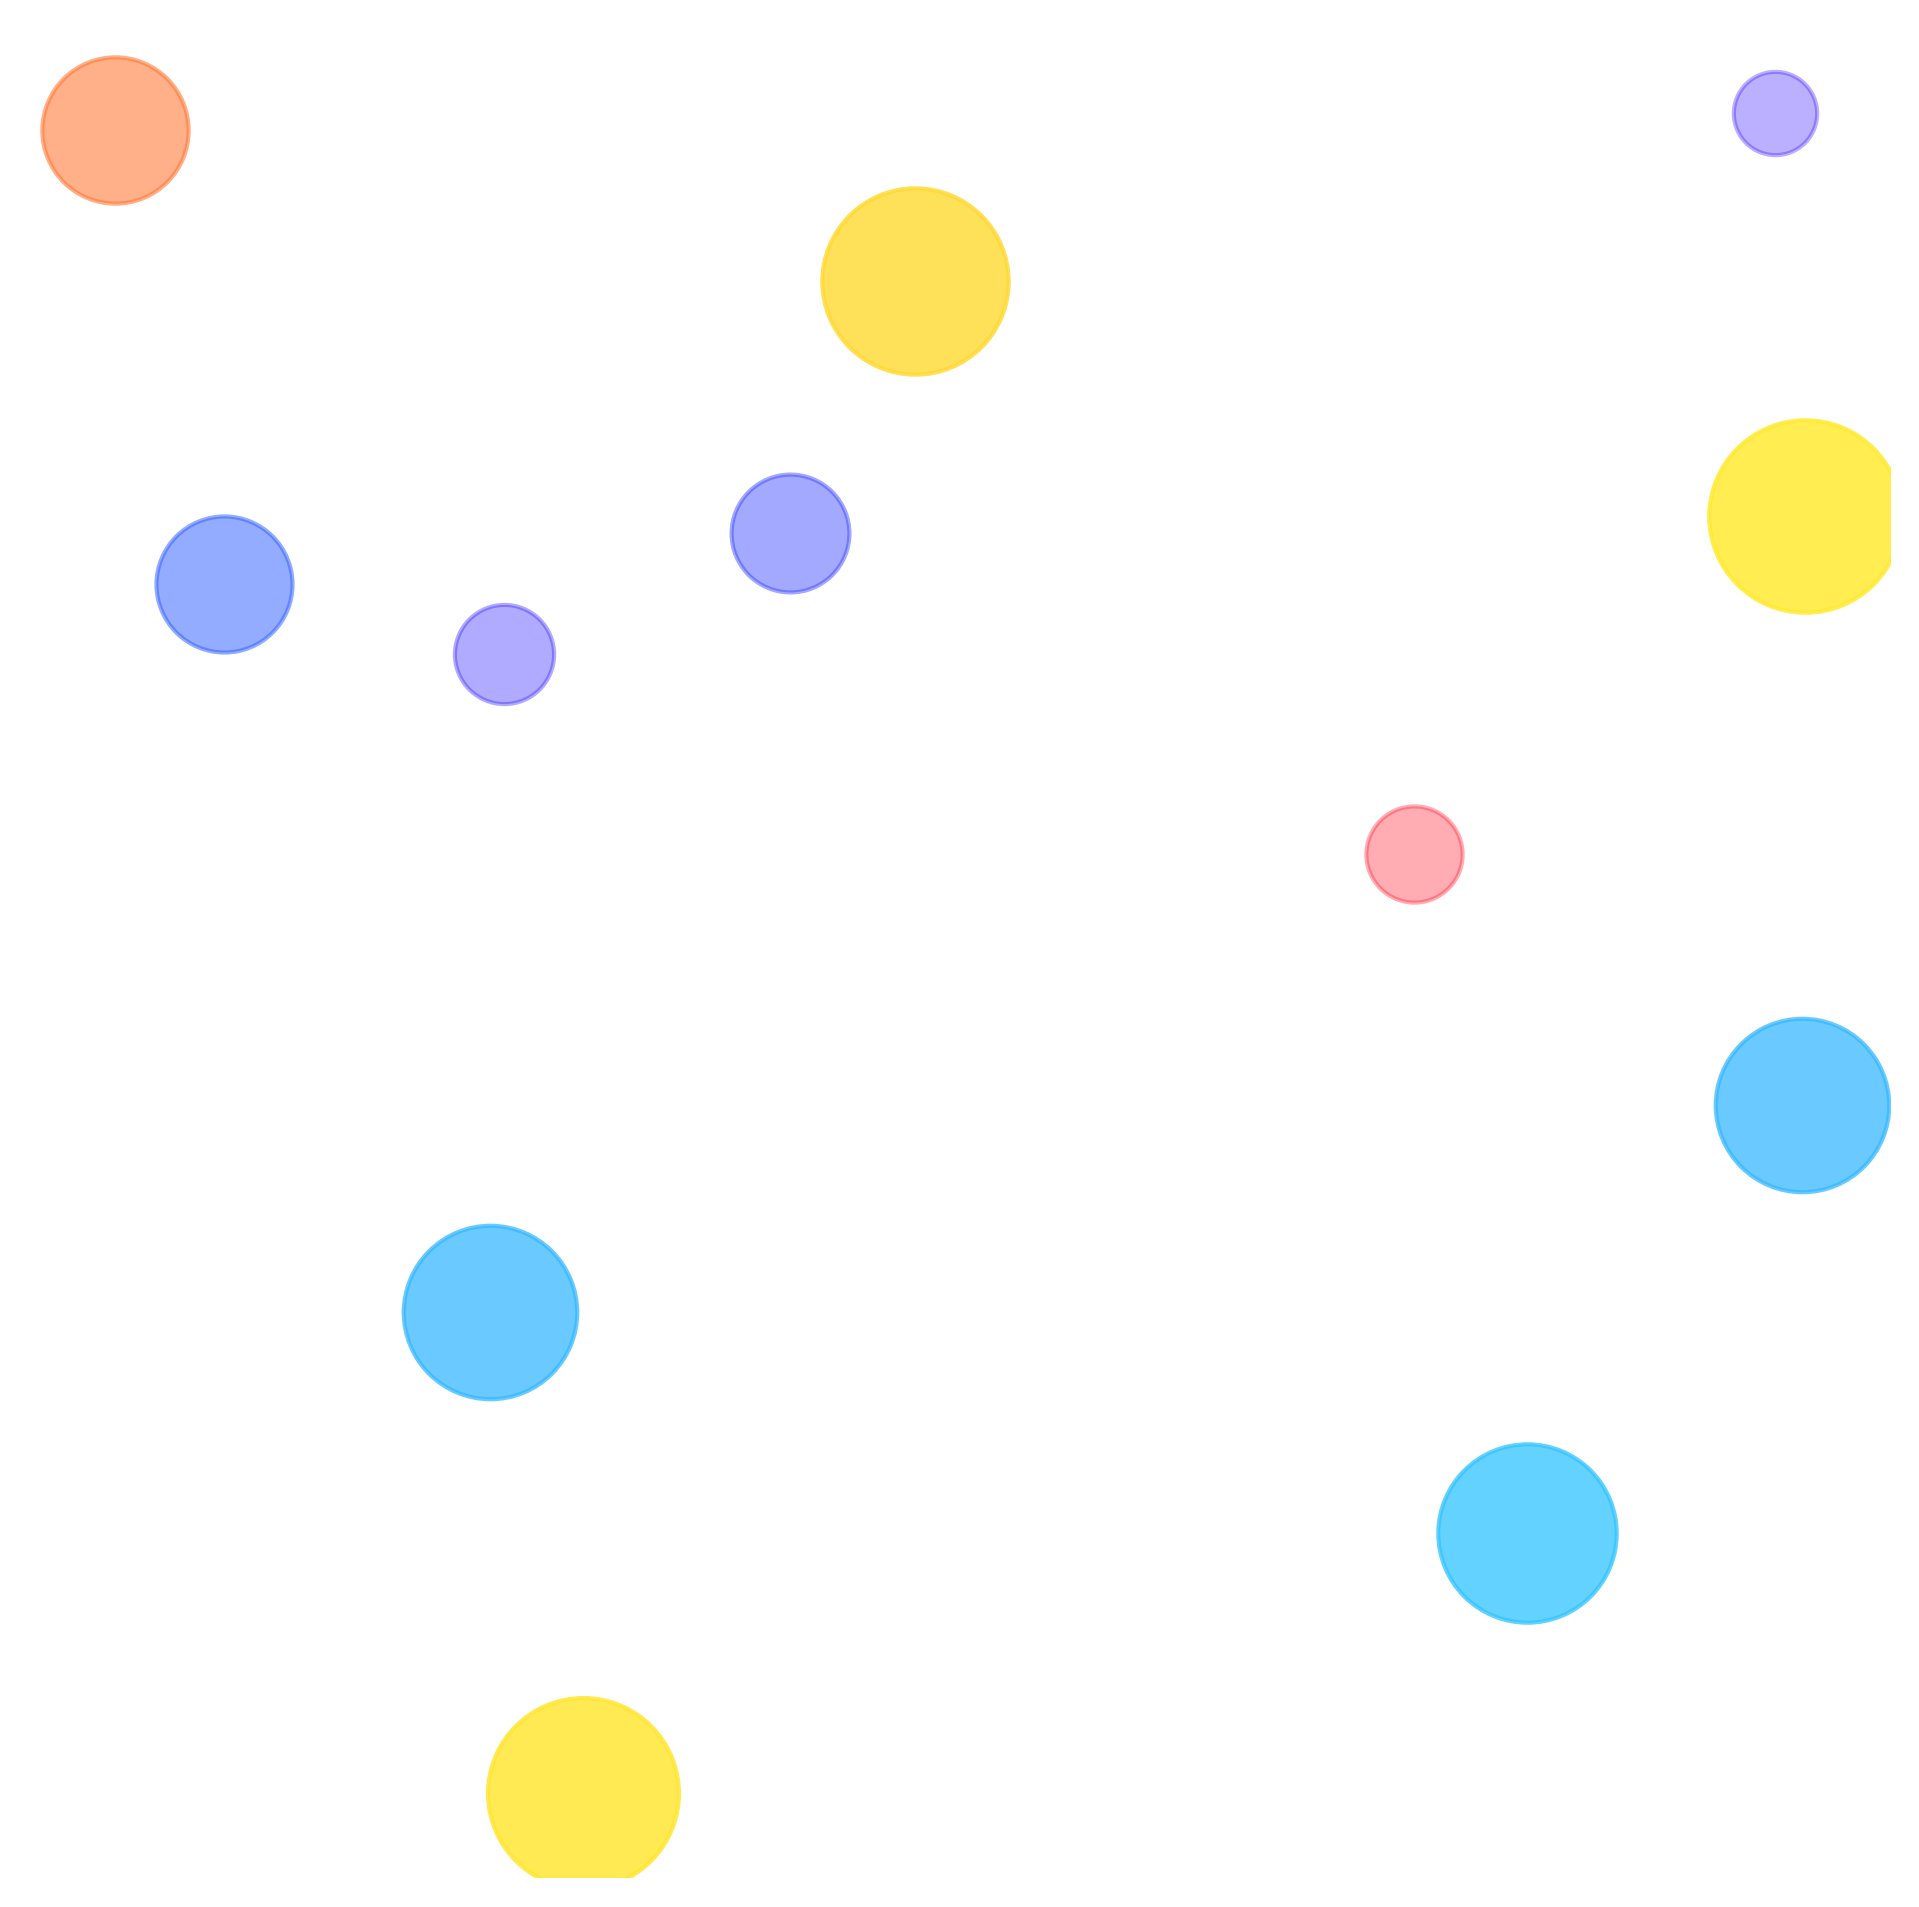
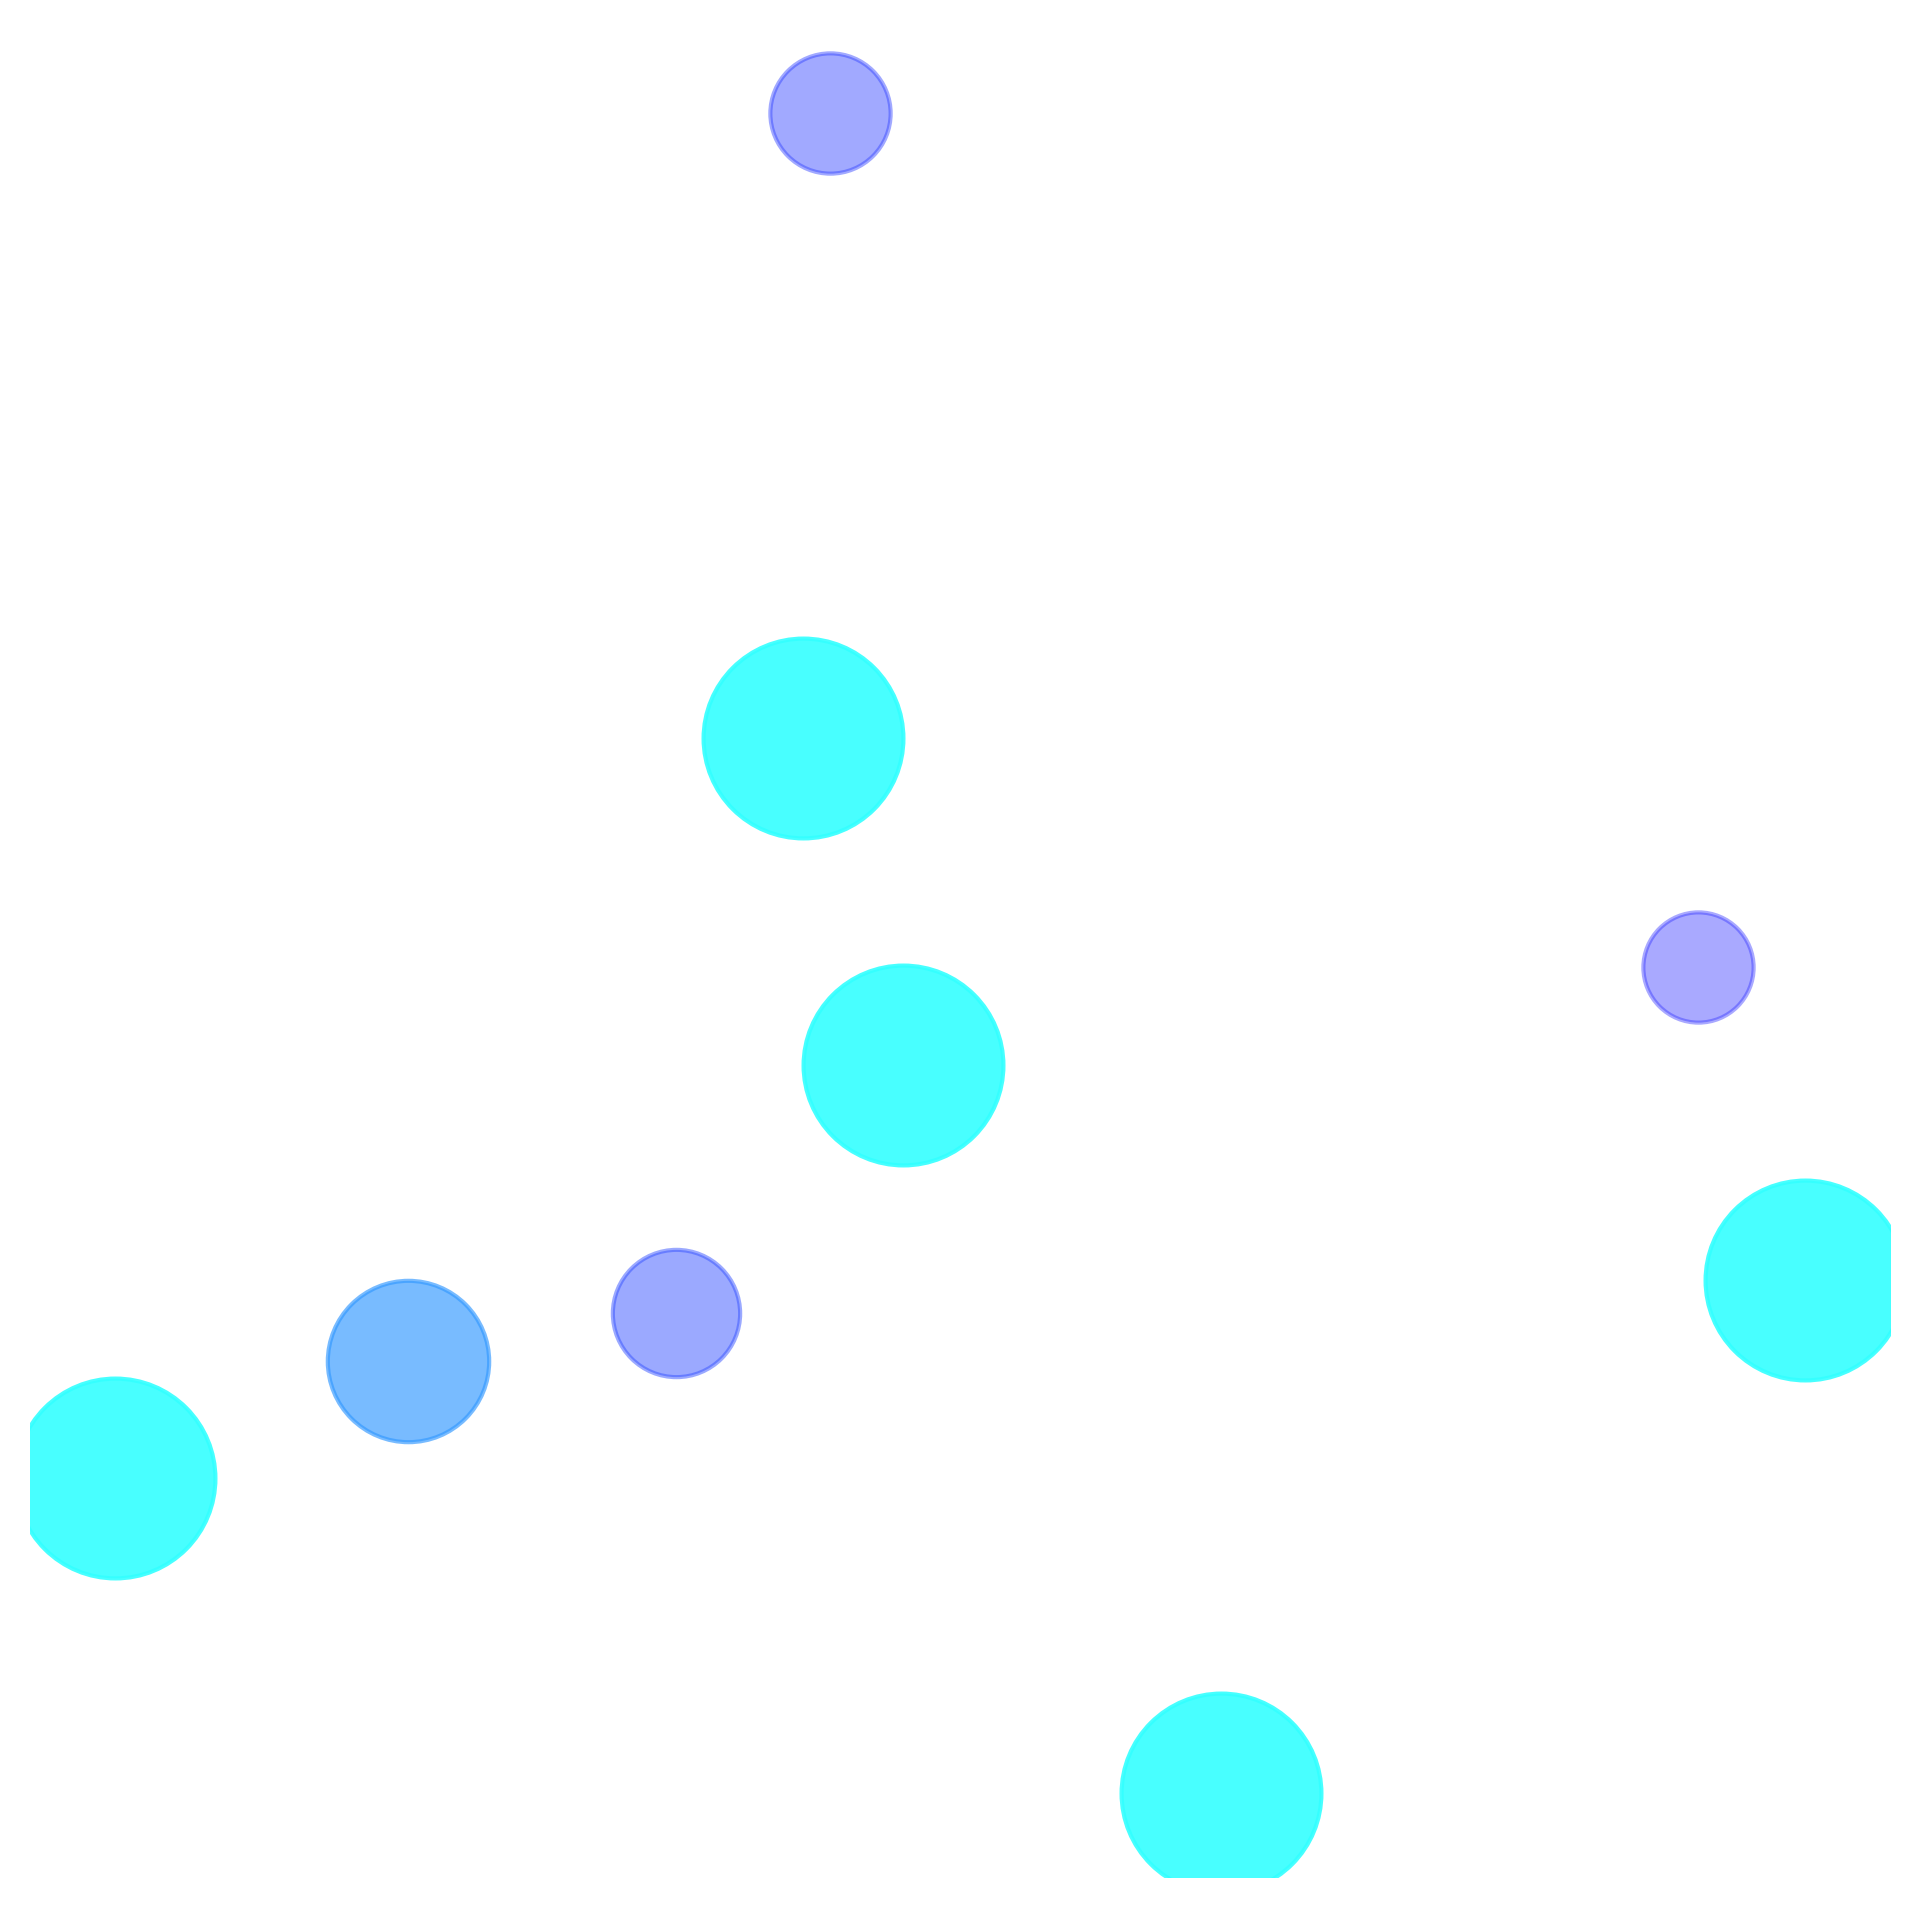
Add Wi-Fi signal art generator

diff --git a/src/art/renderer.py b/src/art/renderer.py
@@ -3,20 +3,46 @@ import numpy as np
 
 def render_art(visuals):
     fig, ax = plt.subplots(figsize=(8, 8))
+
+    # Dark background (huge upgrade)
+    fig.patch.set_facecolor("black")
     ax.set_facecolor("black")
     ax.axis("off")
 
     for v in visuals:
-        x, y = np.random.rand(2)
-        size = 300 + v["strength"] * 2000
-        alpha = 0.3 + v["strength"] * 0.6
+        # Polar layout: signals orbit center
+        angle = np.random.uniform(0, 2 * np.pi)
+        radius = 0.15 + v["strength"] * 0.45
 
+        x = 0.5 + radius * np.cos(angle)
+        y = 0.5 + radius * np.sin(angle)
+
+        size = 300 + v["strength"] * 2500
+        alpha = 0.25 + v["strength"] * 0.6
+
+        # Color by frequency
         if v["freq"] == 2.4:
-            color = (1.0, v["strength"], 0.2)
+            color = (0.2, 1.0, 0.8)   # cyan/green
         else:
-            color = (0.2, v["strength"], 1.0)
+            color = (0.5, 0.6, 1.0)   # blue/purple
 
-        ax.scatter(x, y, s=size, c=[color], alpha=alpha)
+        # Glow layer (big + faint)
+        ax.scatter(
+            x, y,
+            s=size * 1.8,
+            c=[color],
+            alpha=alpha * 0.25,
+            linewidths=0
+        )
+
+        # Core layer (small + bright)
+        ax.scatter(
+            x, y,
+            s=size,
+            c=[color],
+            alpha=alpha,
+            linewidths=0
+        )
 
     plt.savefig("wifi_art.png", dpi=300, bbox_inches="tight")
     plt.show()

diff --git a/src/wifi/scanner.py b/src/wifi/scanner.py
@@ -1,0 +1,29 @@
+import subprocess
+import re
+
+def scan_wifi():
+    command = ["netsh", "wlan", "show", "networks", "mode=Bssid"]
+    output = subprocess.check_output(command, encoding="utf-8", errors="ignore")
+
+    networks = []
+    current = {}
+
+    for line in output.split("\n"):
+        line = line.strip()
+
+        if line.startswith("SSID"):
+            if current:
+                networks.append(current)
+            current = {}
+
+        if "Signal" in line:
+            signal = int(re.search(r"(\d+)%", line).group(1))
+            current["rssi"] = -100 + signal
+
+        if "Radio type" in line:
+            current["freq"] = 2.4 if "802.11b" in line or "g" in line else 5.0
+
+    if current:
+        networks.append(current)
+
+    return networks

diff --git a/src/main.py b/src/main.py
@@ -1,7 +1,7 @@
-from wifi.simulator import simulate_scan
+from wifi.scanner import scan_wifi
 from art.mapper import map_signals
 from art.renderer import render_art
 
-wifi_data = simulate_scan()
+wifi_data = scan_wifi()
 visuals = map_signals(wifi_data)
 render_art(visuals)

diff --git a/src/art/mapper.py b/src/art/mapper.py
@@ -3,6 +3,7 @@ def map_signals(networks):
 
     for net in networks:
         strength = (net["rssi"] + 90) / 60
+        strength = max(0.0, min(1.0, strength))
 
         visuals.append({
             "strength": strength,
